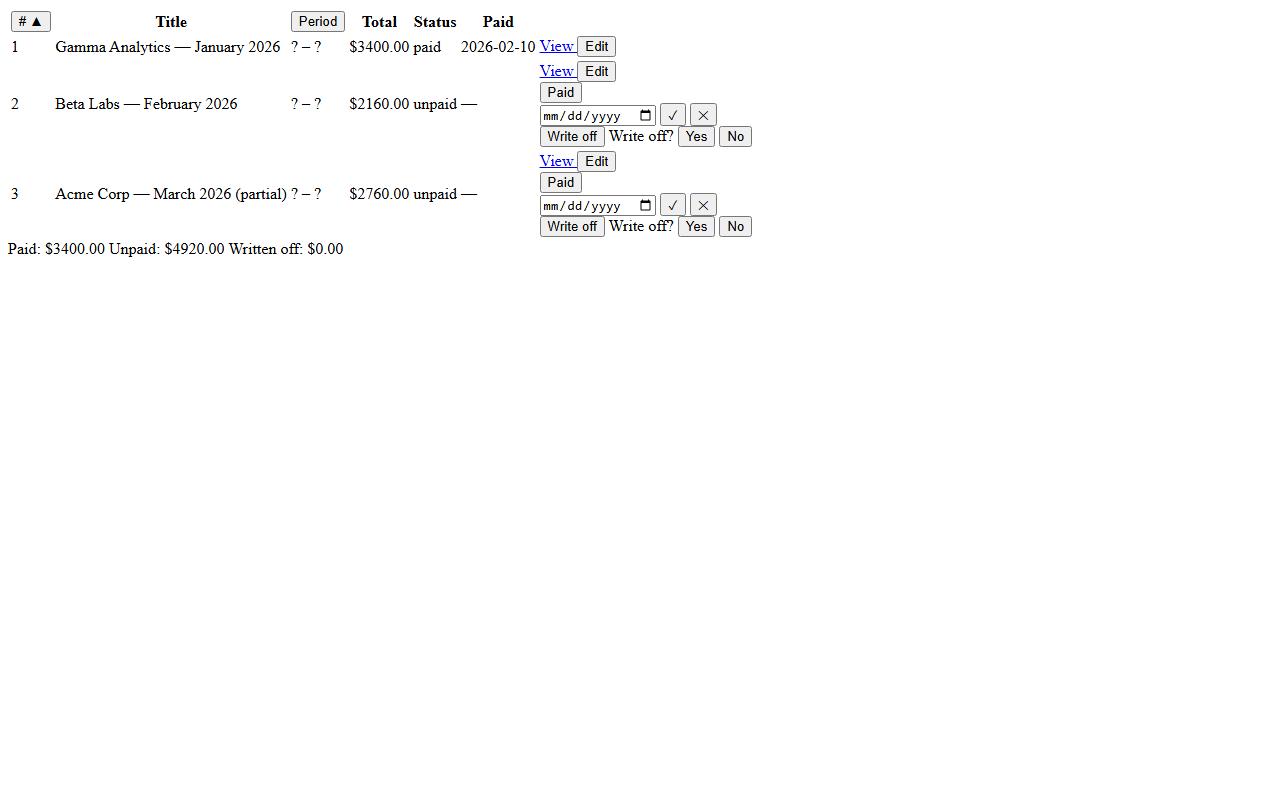
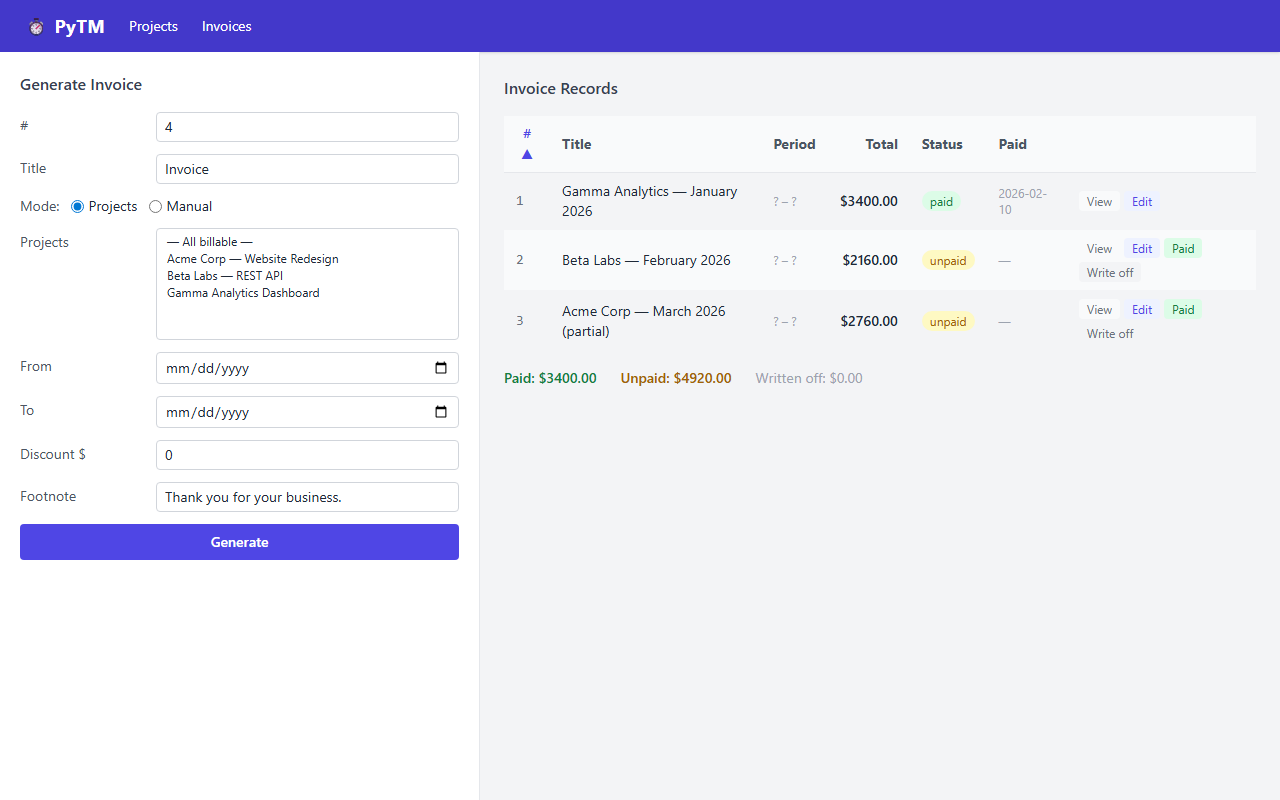
fix: correct invoice page URL in screenshot script (/invoices/page not /invoices)
/invoices returns the list partial only (no nav, no form, no styles).
The full page is at /invoices/page. All invoice screenshots now capture
the complete styled layout.

diff --git a/scripts/take_screenshots.py b/scripts/take_screenshots.py
@@ -329,7 +329,7 @@ def take_screenshots(base_url):
         # Navigate away instead of cancelling — next step goes to /invoices
 
         # --- 09: Invoices list ---
-        page.goto(f"{base_url}/invoices")
+        page.goto(f"{base_url}/invoices/page")
         page.wait_for_load_state("networkidle")
         page.wait_for_timeout(1500)  # Tailwind Play CDN needs time to process dense table markup
         shot("screenshot-09-invoices.png")
@@ -340,7 +340,7 @@ def take_screenshots(base_url):
         shot("screenshot-10-invoice-edit.png")
 
         # --- 11: Mark as paid ---
-        page.goto(f"{base_url}/invoices")
+        page.goto(f"{base_url}/invoices/page")
         page.wait_for_load_state("networkidle")
         page.wait_for_timeout(1500)
         rows = page.locator("tbody tr")
@@ -353,7 +353,7 @@ def take_screenshots(base_url):
                 break
 
         # --- 12: Write-off confirm ---
-        page.goto(f"{base_url}/invoices")
+        page.goto(f"{base_url}/invoices/page")
         page.wait_for_load_state("networkidle")
         page.wait_for_timeout(1500)
         rows = page.locator("tbody tr")
